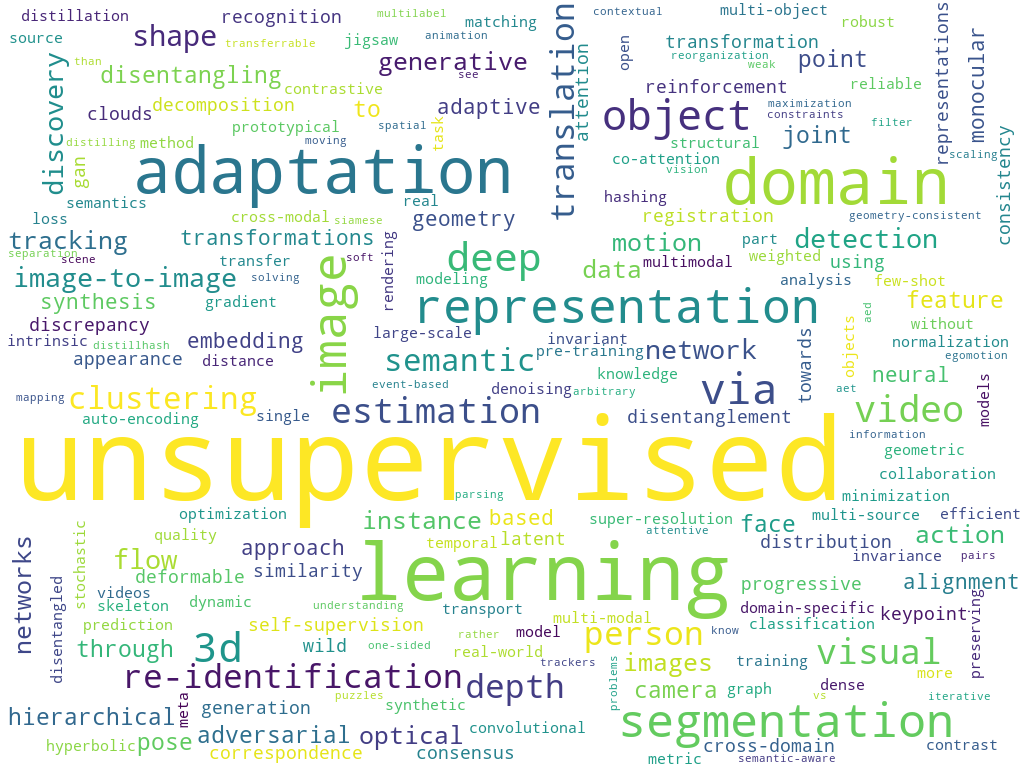
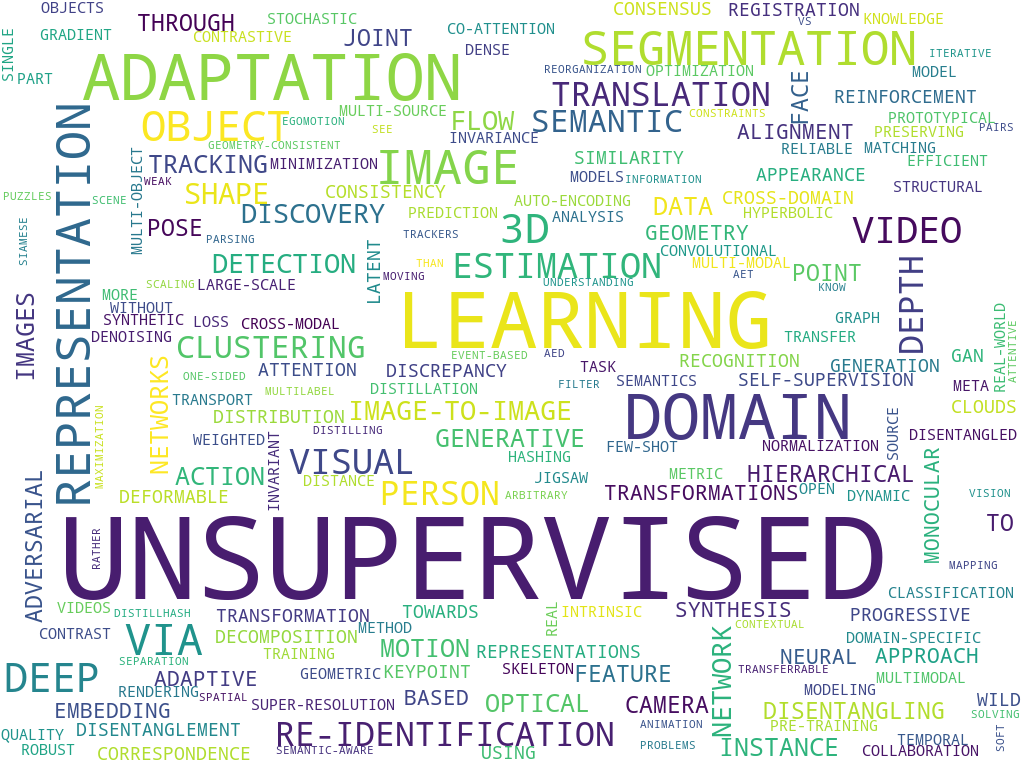
upgrade capitalized wordcloud and other small fixes.

diff --git a/grab.py b/grab.py
@@ -74,7 +74,10 @@ def statistics():
         for col in srtd:
             f.write(col[0]+','+str(col[1])+'\n')
     w=wordcloud.WordCloud(width=1024, height=768, mode="RGBA", background_color=None)
-    w.generate_from_frequencies(kv)
+    ukv=dict()
+    for k,v in kv.items():
+        ukv[k.upper()]=v
+    w.generate_from_frequencies(ukv)
     w.to_file("wordcloud.png")
     
 
@@ -85,7 +88,7 @@ def statistics():
 def main():
     url_start="https://dblp.uni-trier.de/db/conf/cvpr/cvpr"
     url_end=".html"
-    keyword="unsupervised"
+    keyword="unsupervised" # 爬取（筛选）关键词
     path="titles.xlsx"
     global lst
     for y in years:
@@ -93,7 +96,7 @@ def main():
         html=getHTMLText(url_start+str(y)+url_end)
         fillArtcList(ulist, html)
         plist=checkKeyword(ulist, keyword)
-        print("{0} 年包含\"{1}\"的论文共有{2:^6}篇\n".format(y, keyword, len(plist)))
+        print("{0} 年标题包含\"{1}\"的论文共有{2:^6}篇\n".format(y, keyword, len(plist)))
         lst.append(plist)
     xlsxWrite(path)
     statistics()

diff --git a/README.md b/README.md
@@ -6,7 +6,11 @@
 
 最终将处理结果用xlwings输出Excel文件，输出词频统计结果为txt文件，并使用wordcloud生成云图
 
-依赖：
+## 示例云图：
+
+![wordcloud.png](./example/wordcloud.png)
+
+## 依赖：
 
 ```
 requests, bs4, xlwings, wordcloud
@@ -14,7 +18,7 @@ requests, bs4, xlwings, wordcloud
 
 同时提供jupyter notebook和导出的py文件
 
-用法：
+## 用法：
 
 更换main()中keyword为目标关键词后运行，即可得到titles.xlsx,  stat.txt,  wordcloud.png
 
